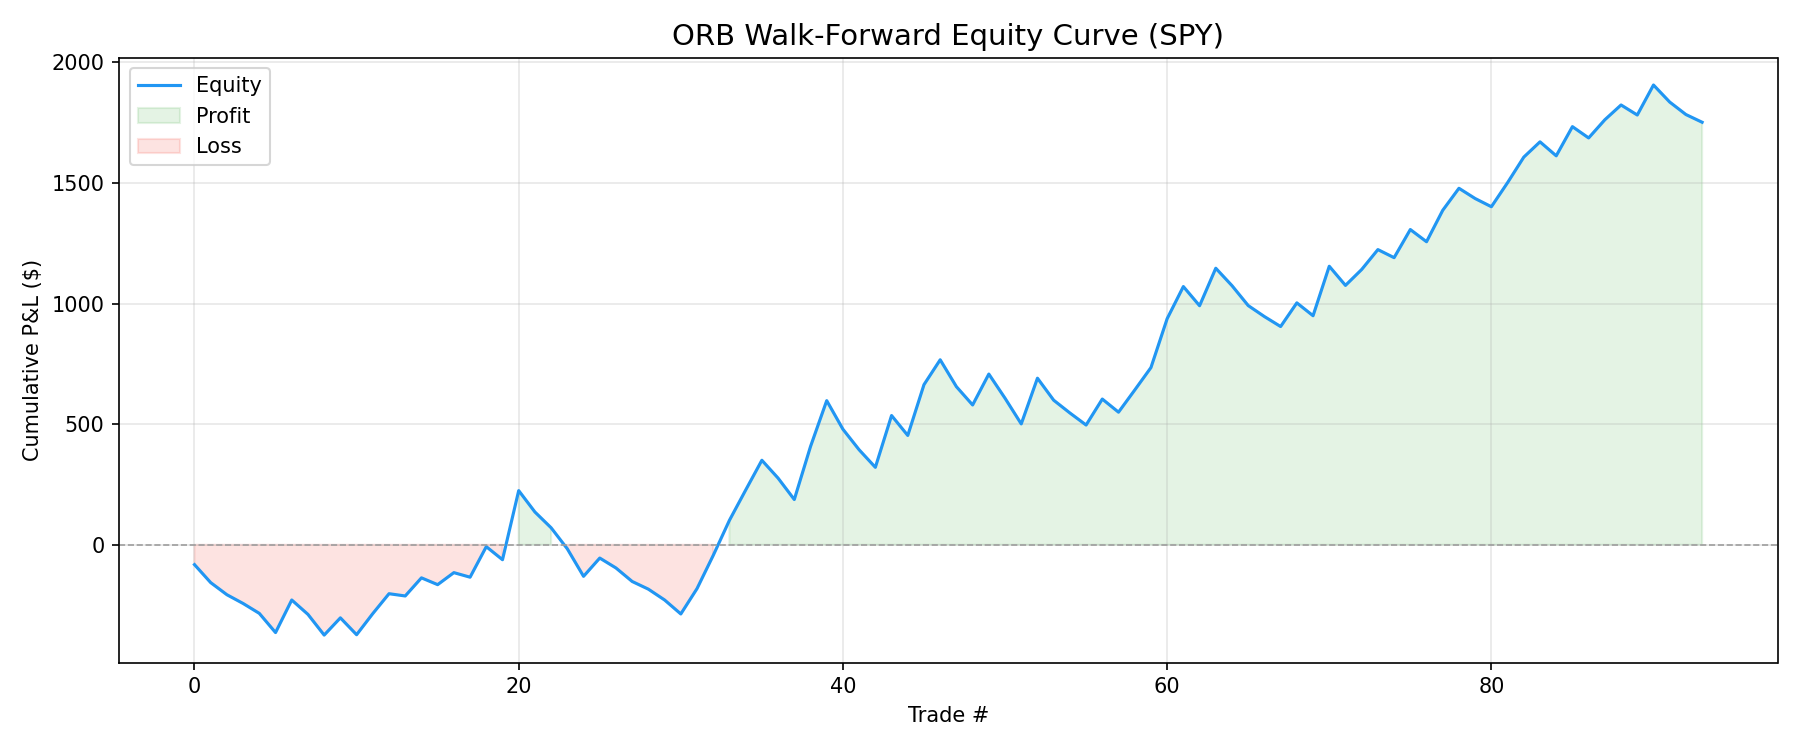
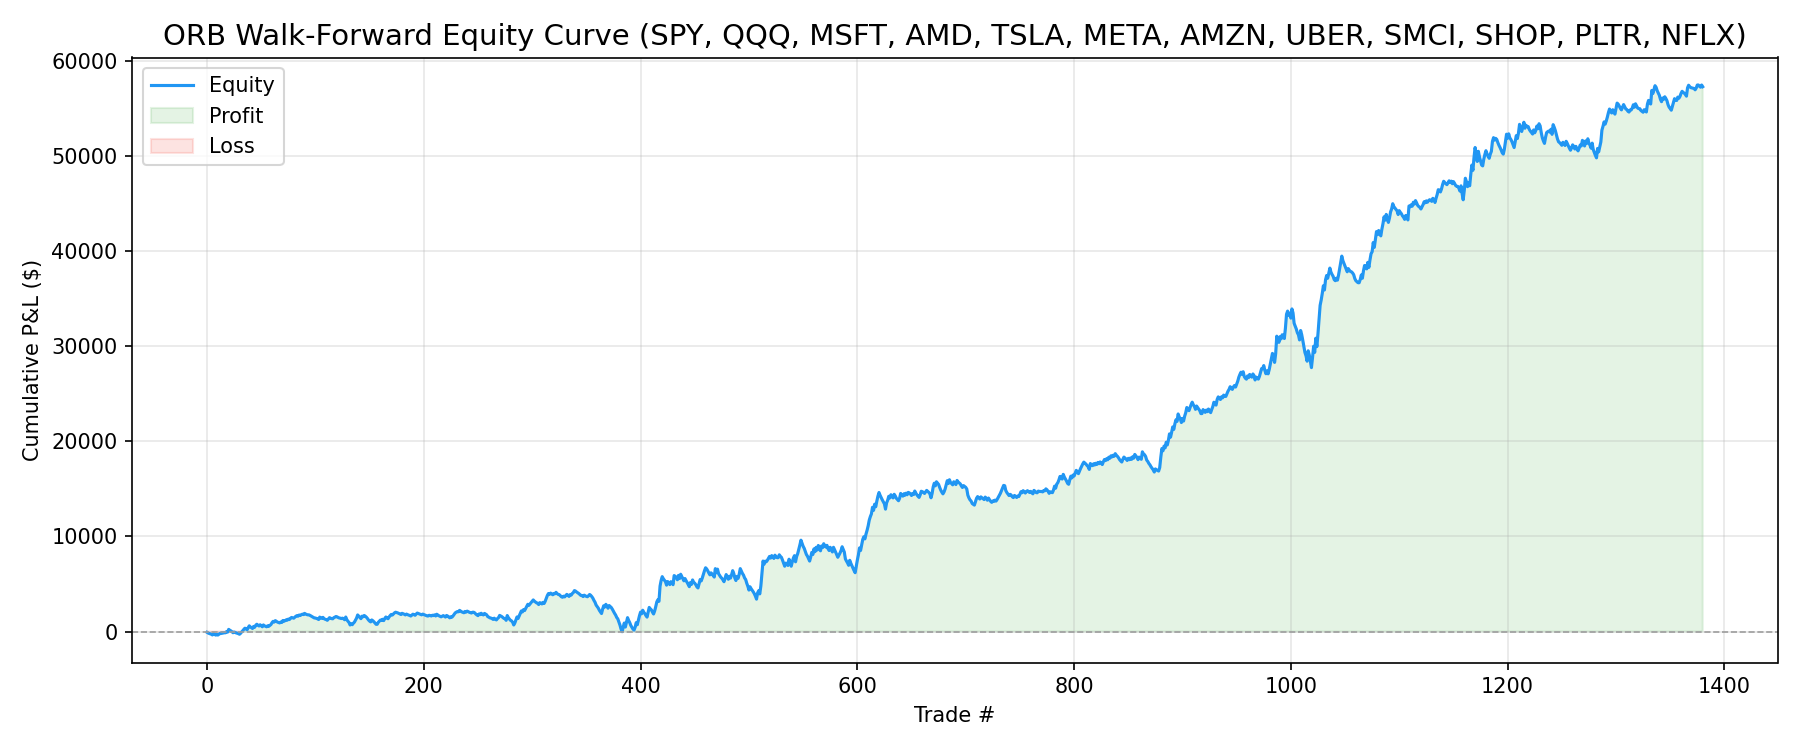
run_backtest.py updated for 12-ticker portfolio

diff --git a/src/config.py b/src/config.py
@@ -72,8 +72,21 @@ class AppSettings(BaseSettings):
     )
     db_path: str = Field(default="data/spy_signals.db", description="Path to SQLite database")
     symbols: list[str] = Field(
-        default=["SPY"],
-        description="Ticker symbols to trade (comma-separated in .env, e.g. SPY,QQQ,IWM)",
+        default=[
+            "SPY",
+            "QQQ",
+            "MSFT",
+            "AMD",
+            "TSLA",
+            "META",
+            "AMZN",
+            "UBER",
+            "SMCI",
+            "SHOP",
+            "PLTR",
+            "NFLX",
+        ],
+        description="Ticker symbols to trade (comma-separated in .env)",
     )
 
     @field_validator("symbols", mode="before")

diff --git a/scripts/run_backtest.py b/scripts/run_backtest.py
@@ -68,8 +68,8 @@ def _parse_args() -> argparse.Namespace:
     parser = argparse.ArgumentParser(description="Walk-forward ORB backtest runner (multi-symbol)")
     parser.add_argument(
         "--symbols",
-        default="SPY",
-        help="Comma-separated list of ticker symbols (default: SPY)",
+        default="SPY,QQQ,MSFT,AMD,TSLA,META,AMZN,UBER,SMCI,SHOP,PLTR,NFLX",
+        help="Comma-separated list of ticker symbols (default: 12-ticker portfolio)",
     )
     parser.add_argument(
         "--is-days", type=int, default=60, help="In-sample window days (default: 60)"
